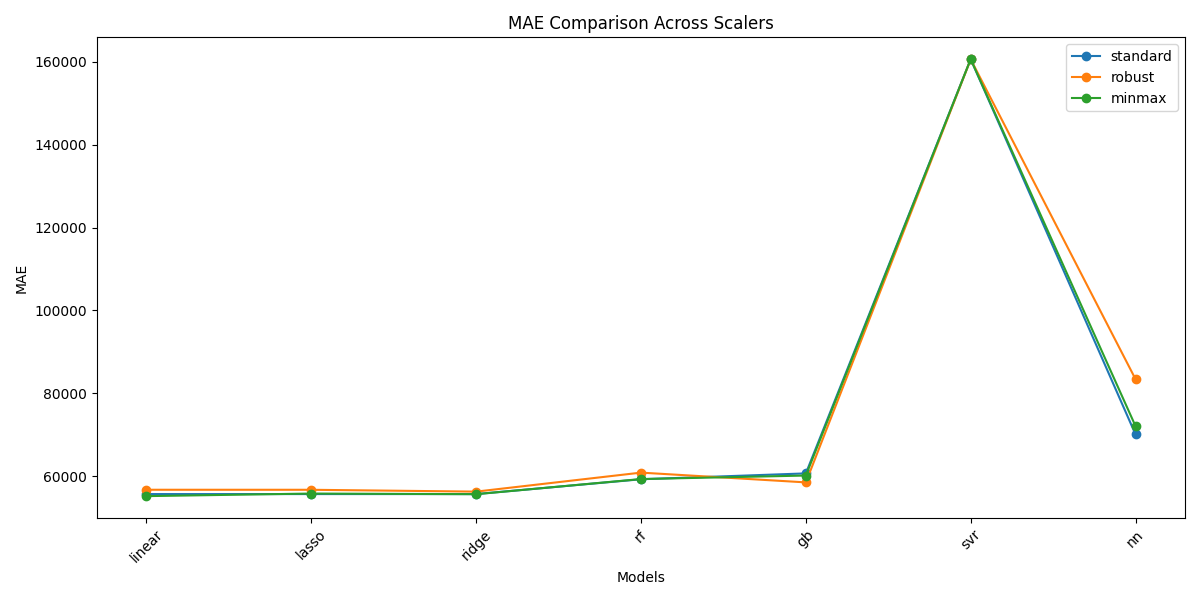
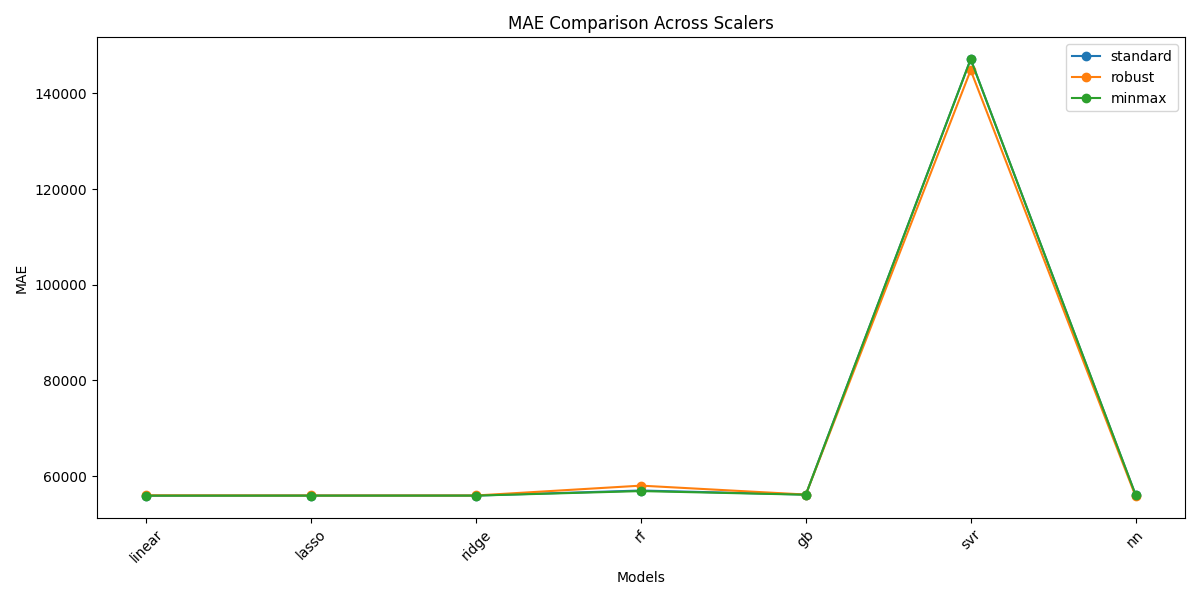
Trained on 50K, found what models not to use, need to apply some fixes.

diff --git a/main.py b/main.py
@@ -14,7 +14,7 @@ def main():
     scaler_types = ['standard', 'robust', 'minmax']
     results = {}
 
-    sample_size = 1000  # Dataset size to be changed here
+    sample_size = 50000  # Dataset size to be changed here
     feature_names = None
 
     for scaler_type in scaler_types:

diff --git a/reports/housing-price-prediction-model-nextsteps-and-model-selection.md b/reports/housing-price-prediction-model-nextsteps-and-model-selection.md
@@ -1,0 +1,87 @@
+# Housing Price Prediction Model: Next Steps and Model Selection
+
+## Immediate Actions
+
+1. **Fix model saving issue**
+   - Modify `build_nn_model` in `ModelTrainer` class to use a regular function instead of a lambda to enable pickling.
+
+2. **Implement additional features**
+   - Add time tracking for training and evaluation of each model.
+   - Implement memory usage tracking to monitor resource consumption.
+   - Add feature importance plotting for tree-based models (Random Forest and Gradient Boosting).
+   - Implement learning curves to assess overfitting/underfitting for each model.
+
+3. **Optimize for larger datasets**
+   - Implement batch processing for data loading and model training.
+   - Use memory-efficient data types (e.g., float32 instead of float64) where appropriate.
+   - Implement feature selection to reduce dimensionality before model training.
+
+## Model Selection
+
+Based on the results from our 50,000 record run, we've decided to focus on the following models:
+
+### Models to Keep
+
+1. **Ridge Regression**
+   - Represents linear models with regularization.
+   - Balanced performance among linear models.
+   - Offers good interpretability.
+
+2. **Random Forest**
+   - Strong performance, second only to Neural Network.
+   - Provides feature importance and good interpretability.
+   - [Performance Graph](link_to_RMSE_comparison.png)
+
+3. **Gradient Boosting**
+   - Performance similar to Random Forest.
+   - Offers feature importance and reasonable interpretability.
+   - [Performance Graph](link_to_MAE_comparison.png)
+
+4. **Neural Network**
+   - Best performer across all metrics and scalers.
+   - Requires further evaluation for interpretability and overfitting.
+   - [Performance Graph](link_to_R2_comparison.png)
+
+### Models to Remove
+
+1. **Support Vector Regression (SVR)**
+   - Significantly underperformed all other models.
+   - Highest RMSE, MAE, and MSE; lowest R2 score.
+   - [Performance Graph](link_to_MSE_comparison.png)
+
+2. **Linear Regression**
+   - Outperformed by regularized versions (Ridge and Lasso).
+   - Removed in favor of Ridge Regression.
+
+3. **Lasso Regression**
+   - Similar performance to Ridge, but with convergence issues.
+   - Removed in favor of Ridge Regression.
+
+## Performance Summary
+
+- Neural Network consistently outperformed other models across all scalers.
+- Random Forest and Gradient Boosting showed strong performance, close to Neural Network.
+- Ridge Regression performed best among linear models.
+- Robust scaling generally provided slightly better results across models.
+
+## Next Run Configuration
+
+- Dataset size: 75,000 records (incrementally increasing from 50,000)
+- Models: Ridge, Random Forest, Gradient Boosting, Neural Network
+- Implement basic hyperparameter tuning for Ridge, RF, and GB
+- Experiment with simpler Neural Network architecture
+
+## Resource Considerations
+
+- Previous run (50,000 records):
+  - Runtime: ~22 minutes
+  - Peak memory usage: 10.3/16GB
+  - CPU utilization: 10%
+- Monitor these metrics in the next run to assess scalability
+
+## Additional Information
+
+- The full 250,000 record dataset may not be feasible on current hardware.
+- Consider cloud computing options for full dataset if local resources are insufficient.
+- Balance model performance with interpretability requirements for the interactive user interface.
+- Implement cross-validation for more robust model evaluation.
